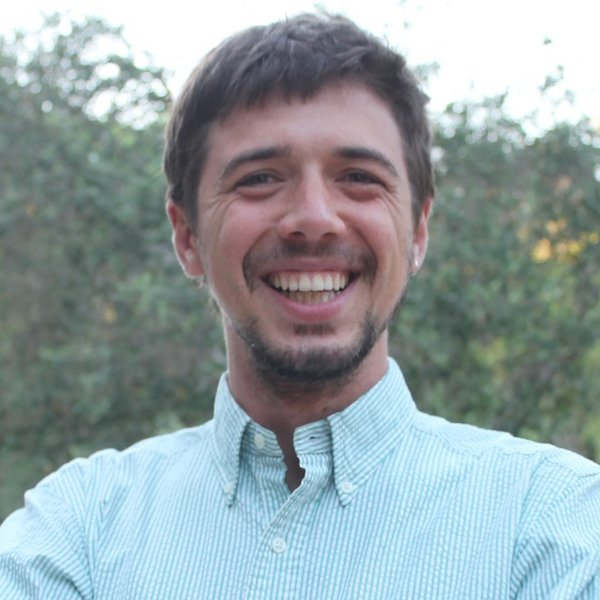
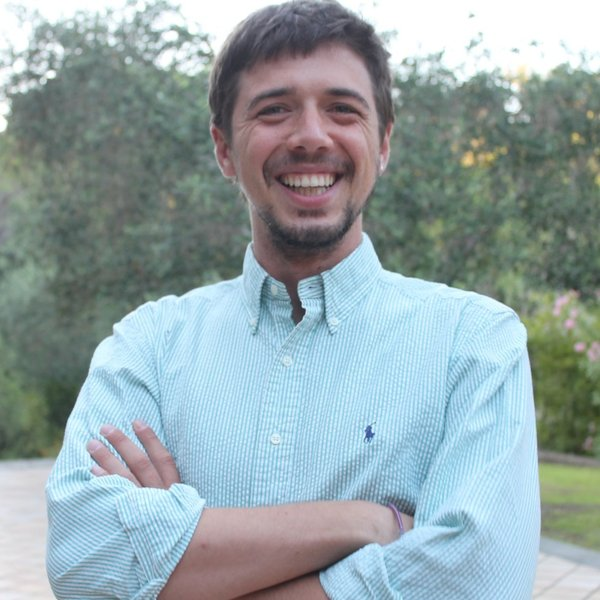
Change new width and bigger picture

diff --git a/index.html b/index.html
@@ -62,7 +62,7 @@
       </li>
       <li>
         <span class="title">Farming, Non-Farm Enterprises, and Migration under Incomplete Markets</span><br>
-        with <a href="https://sites.google.com/view/davide-pietrobon/research" target="_blank">Davide Pietrobon</a>, <a href="https://sites.google.com/site/giacomodegiorgi/" target="_blank">Giacomo de Giorgi</a>, and <a href="https://www.unige.ch/gsem/en/research/faculty/all/salvatore-di-falco/" target="_blank">Salvatore di Falco</a>
+        with <a href="https://sites.google.com/view/davide-pietrobon/home" target="_blank">Davide Pietrobon</a>, <a href="https://sites.google.com/site/giacomodegiorgi/" target="_blank">Giacomo de Giorgi</a>, and <a href="https://www.unige.ch/gsem/en/research/faculty/all/salvatore-di-falco/" target="_blank">Salvatore di Falco</a>
       </li>
     </ul>
   </section>

diff --git a/style.css b/style.css
@@ -1,6 +1,6 @@
 /* Layout: one narrow, centred column */
 body {
-  max-width: 760px;
+  max-width: 1200px;
   margin: 0 auto;
   padding: 2rem 1rem;
   font-family: system-ui, -apple-system, "Segoe UI", Roboto, "Helvetica Neue", Arial, sans-serif;
@@ -39,8 +39,8 @@ h2 {
 /* Round photo on the right of the header */
 header img {
   float: right;
-  width: 180px;
-  height: 180px;
+  width: 260px;
+  height: 260px;
   margin: 0 0 1rem 1.5rem;
   border-radius: 50%;
   object-fit: cover;
